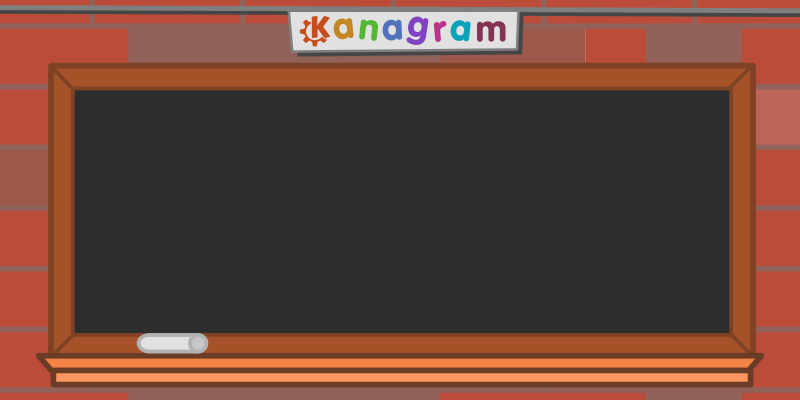
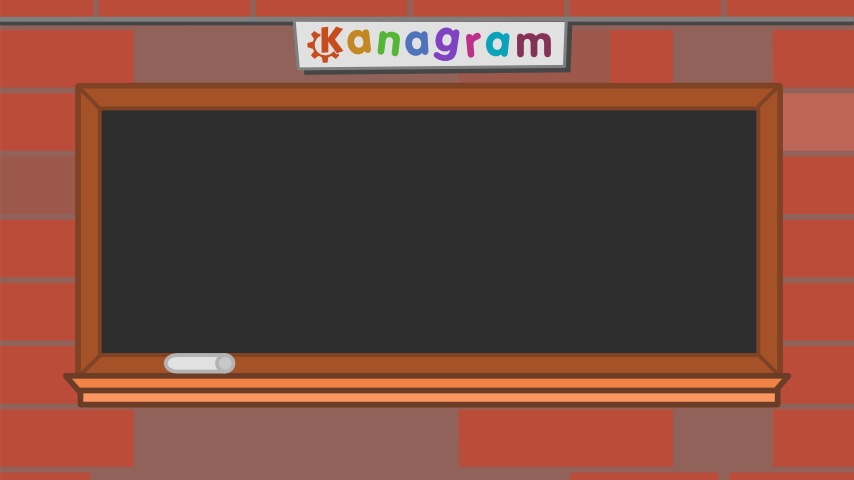
Update the landscape background image in order to scale better

diff --git a/src/harmattan/main.qml b/src/harmattan/main.qml
@@ -74,7 +74,7 @@ PageStackWindow {
         background: "qrc:/kanagram-chalkboard-landscape.png";
         landscapeBackground: "qrc:/kanagram-chalkboard-landscape.png";
         portraitBackground: "qrc:/kanagram-chalkboard-portrait.png";
-        backgroundFillMode: Image.PreserveAspectFit;
+        backgroundFillMode: Image.Stretch;
     }
 
     SoundEffect {

diff --git a/src/harmattan/GamePage.qml b/src/harmattan/GamePage.qml
@@ -236,8 +236,8 @@ Page {
         anchors {
             right: parent.right;
             top: parent.top;
-            topMargin: 20;
-            rightMargin: 20;
+            topMargin: 25;
+            rightMargin: 25;
         }
 
         LetterElement {
